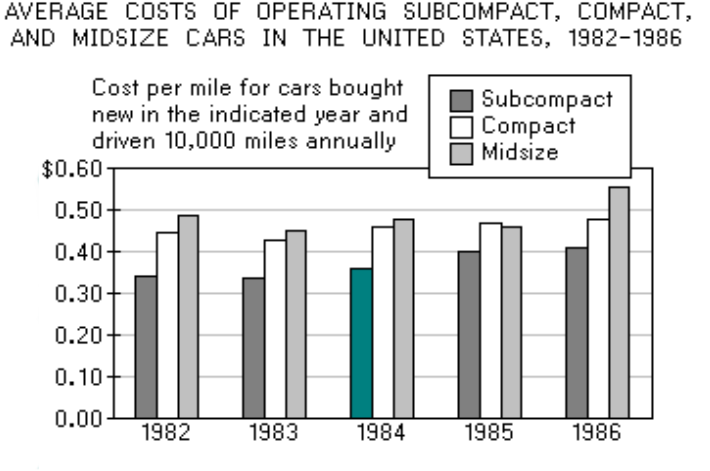
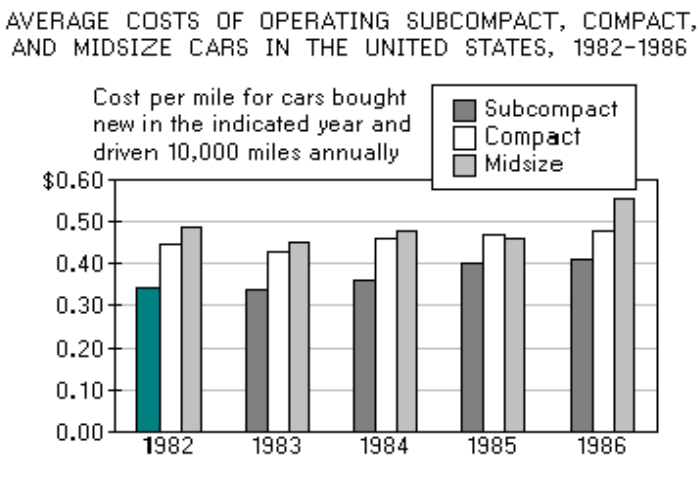
ps 101

diff --git a/amat_study/amat_questions.html b/amat_study/amat_questions.html
@@ -7569,7 +7569,9 @@
     </div>
 
     <div id="question_ps_101" class="question problem-solving sheet-102 d-none d-print-block">
-      <h3>101-![graph](./img_ps_q100_graph.png)
+      <h3>101- <br />
+        <div style="color:#FFFFFF">average costs of operating subcompact, compact, and midsize cars in the united states, 1982-1986, cost per mile for cars bought new in the indicated year and driven 10,000 miles annually, in 1982 the approximate average cost of operating a subcompact car for 10,000 miles was</div>
+        <img src="./img_ps_q101_graph.png" alt="q101 triangle">
         <br />
 
         In 1982 the approximate average cost of operating a subcompact car for 10,000 miles was
